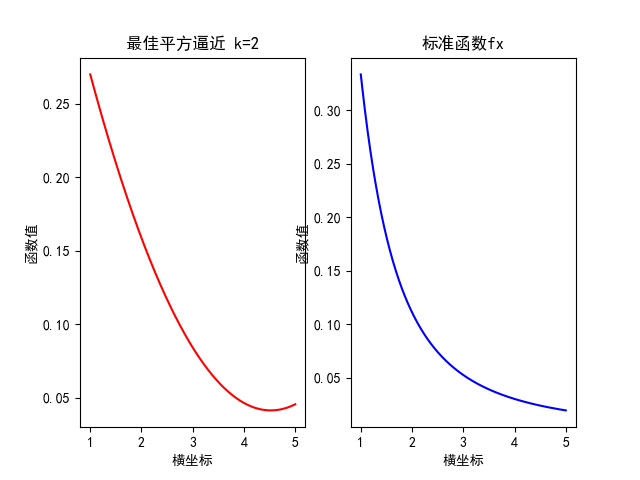
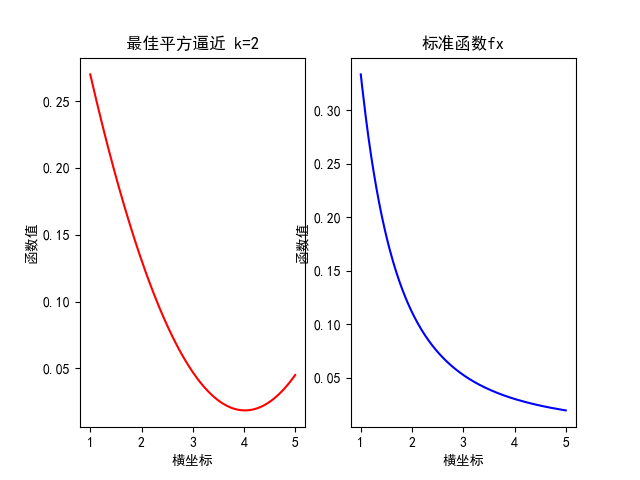
Lab2 done

diff --git a/Lab2_func_approximation/Legendre.py b/Lab2_func_approximation/Legendre.py
@@ -18,41 +18,48 @@ class Legendre :
             out = 0
             if i == 0: 
                 # f = 1/(1+c*(self.interval[0]*t+self.interval[1])**2)
-                out,err = quad(lambda t:1/(1+c*(self.interval[0]*t+self.interval[1])**2),-1,1)
+                out,err = quad(lambda t: (1/(1+c*(self.interval[0]*t+self.interval[1])**2)),-1,1)
                 out = out/2
                
-            elif i == 1:
+            if i == 1:
                 # t = symbols('t')
                 # f = (t)/(1+c*(self.interval[0]*t+self.interval[1])**2)
-                out,err = quad(lambda t:(t)/(1+c*(self.interval[0]*t+self.interval[1])**2),-1,1)
-                out = out *3/2
+                out,err = quad(lambda t: (t/(1+c*(self.interval[0]*t+self.interval[1])**2)),-1,1)
+                out = out *3.0/2
            
-            elif i == 2 :
+            if i == 2 :
                 # t = symbols('t')
                 # f = (3*(t**2)-1)/(2*(1+c*(self.interval[0]*t+self.interval[1])**2))
-                out,err = quad(lambda t:(3*(t**2)-1)/(2*(1+c*(self.interval[0]*t+self.interval[1])**2)),-1,1)
-                out = out *5/2
+                out,err = quad(lambda t: ((3*(t**2)-1)/(2*(1+c*(self.interval[0]*t+self.interval[1])**2))),-1,1)
+                out = out *5.0/2
                
 
-            elif i == 3 :
+            if i == 3 :
                 # t = symbols('t')
                 # f = (5*(t**3)-3*(self.interval[0]*t+self.interval[1]))/(2*(1+c*(self.interval[0]*t+self.interval[1])**2))
-                out,err = quad(lambda t:(5*(t**3)-3*(t))/(2*(1+c*(self.interval[0]*t+self.interval[1])**2)),-1,1)
-                out = out * 7/2
+                out,err = quad(lambda t: ((5*(t**3)-3*(t))/(2*(1+c*(self.interval[0]*t+self.interval[1])**2))),-1,1)
+                out = out * 7.0/2
 
             self.coeffi.append(out)
         
-    def cal_test(self,test_set,k):
+    def cal_test(self,test_set):
         # print(self.coeffi)
         for i in range(len(test_set)):
-            temp =test_set[i]
+            temp = test_set[i]
             out = 0
-            for j in range(k+1):
-                if j == 0:
-                    out += self.coeffi[j]
-                else:
-                    out = out + self.coeffi[j]*(temp**j)
+            for j in range(len(self.coeffi)):
+                temp1 = self.functio1(j,temp)
+                out = out + self.coeffi[j]*temp1
             self.outcome.append(out)
         return self.outcome
 
+    def functio1(self,j,x):
+        if j == 0:
+            return 1
+        elif j == 1:
+            return x
+        elif j == 2:
+            return 3/2*x**2-1/2
+        elif j == 3:
+            return 5/2*x**3-3/2*x
             

diff --git a/Lab2_func_approximation/outcome.py b/Lab2_func_approximation/outcome.py
@@ -3,7 +3,6 @@ import numpy as np
 import random
 from Legendre import Legendre
 from least_square import Square
-from sympy.functions.special.polynomials import legendre
 import matplotlib.pyplot as plt
 plt.rcParams['font.sans-serif']=['SimHei'] #用来正常显示中文标签
 plt.rcParams['axes.unicode_minus'] = False #用来正常显示负号
@@ -12,7 +11,7 @@ def fx(c, x):
     # x为输入数据数组
     y = []
     for i in range(len(x)):
-        temp = 1/(1+c*x[i]**2)
+        temp = 1/(1+c*(x[i]**2))
         y.append(temp)
     return y
 
@@ -38,32 +37,33 @@ if __name__ == "__main__":
     for i in range(m): #普通的测试集合
         temp = random.uniform(a[0],a[1])
         test_set.append(temp)
+        
     test_set.sort()
     for i in range(m): #映射的测试集合
         temp = test_set[i]
-        test_set1.append((1/(a[1]-a[0]))*(temp*2-a[0]-a[1]))
+        test_set1.append((1/(a[1]-a[0]))*(2*temp-a[0]-a[1]))
     
     standard = []
     standard = fx(c,test_set) #原函数测试集对应结果
 
     legend = Legendre(a)
     legend.calculation(k,c)
-    outcome1 = legend.cal_test(test_set1, k)#计算结果
+    outcome1 = legend.cal_test(test_set1)#计算结果
 
     lsquare = Square(x,y)
     lsquare.calculation(k) #计算系数
     outcome2 = lsquare.outcome(test_set) #计算结果
 
     
-    outcome_1 = 0
+    outcome_1lll = 0
     for i in range(m):
-        outcome_1 = outcome_1 + abs(outcome1[i] - standard[i])
-    outcome_1 = outcome_1/m
-    print("最佳平方逼近的平均误差为: ", outcome_1)
+        outcome_1lll += abs(outcome1[i] - standard[i])
+    outcome_1lll = outcome_1lll/m
+    print("最佳平方逼近的平均误差为: ",outcome_1lll)
 
     outcome_2 = 0
     for i in range(m):
-        outcome_2 = outcome_2 + abs(outcome2[i] - standard[i])
+        outcome_2 += abs(outcome2[i] - standard[i])
     outcome_2 = outcome_2/m
     print("最小二乘法的平均误差为: ", outcome_2)
 
